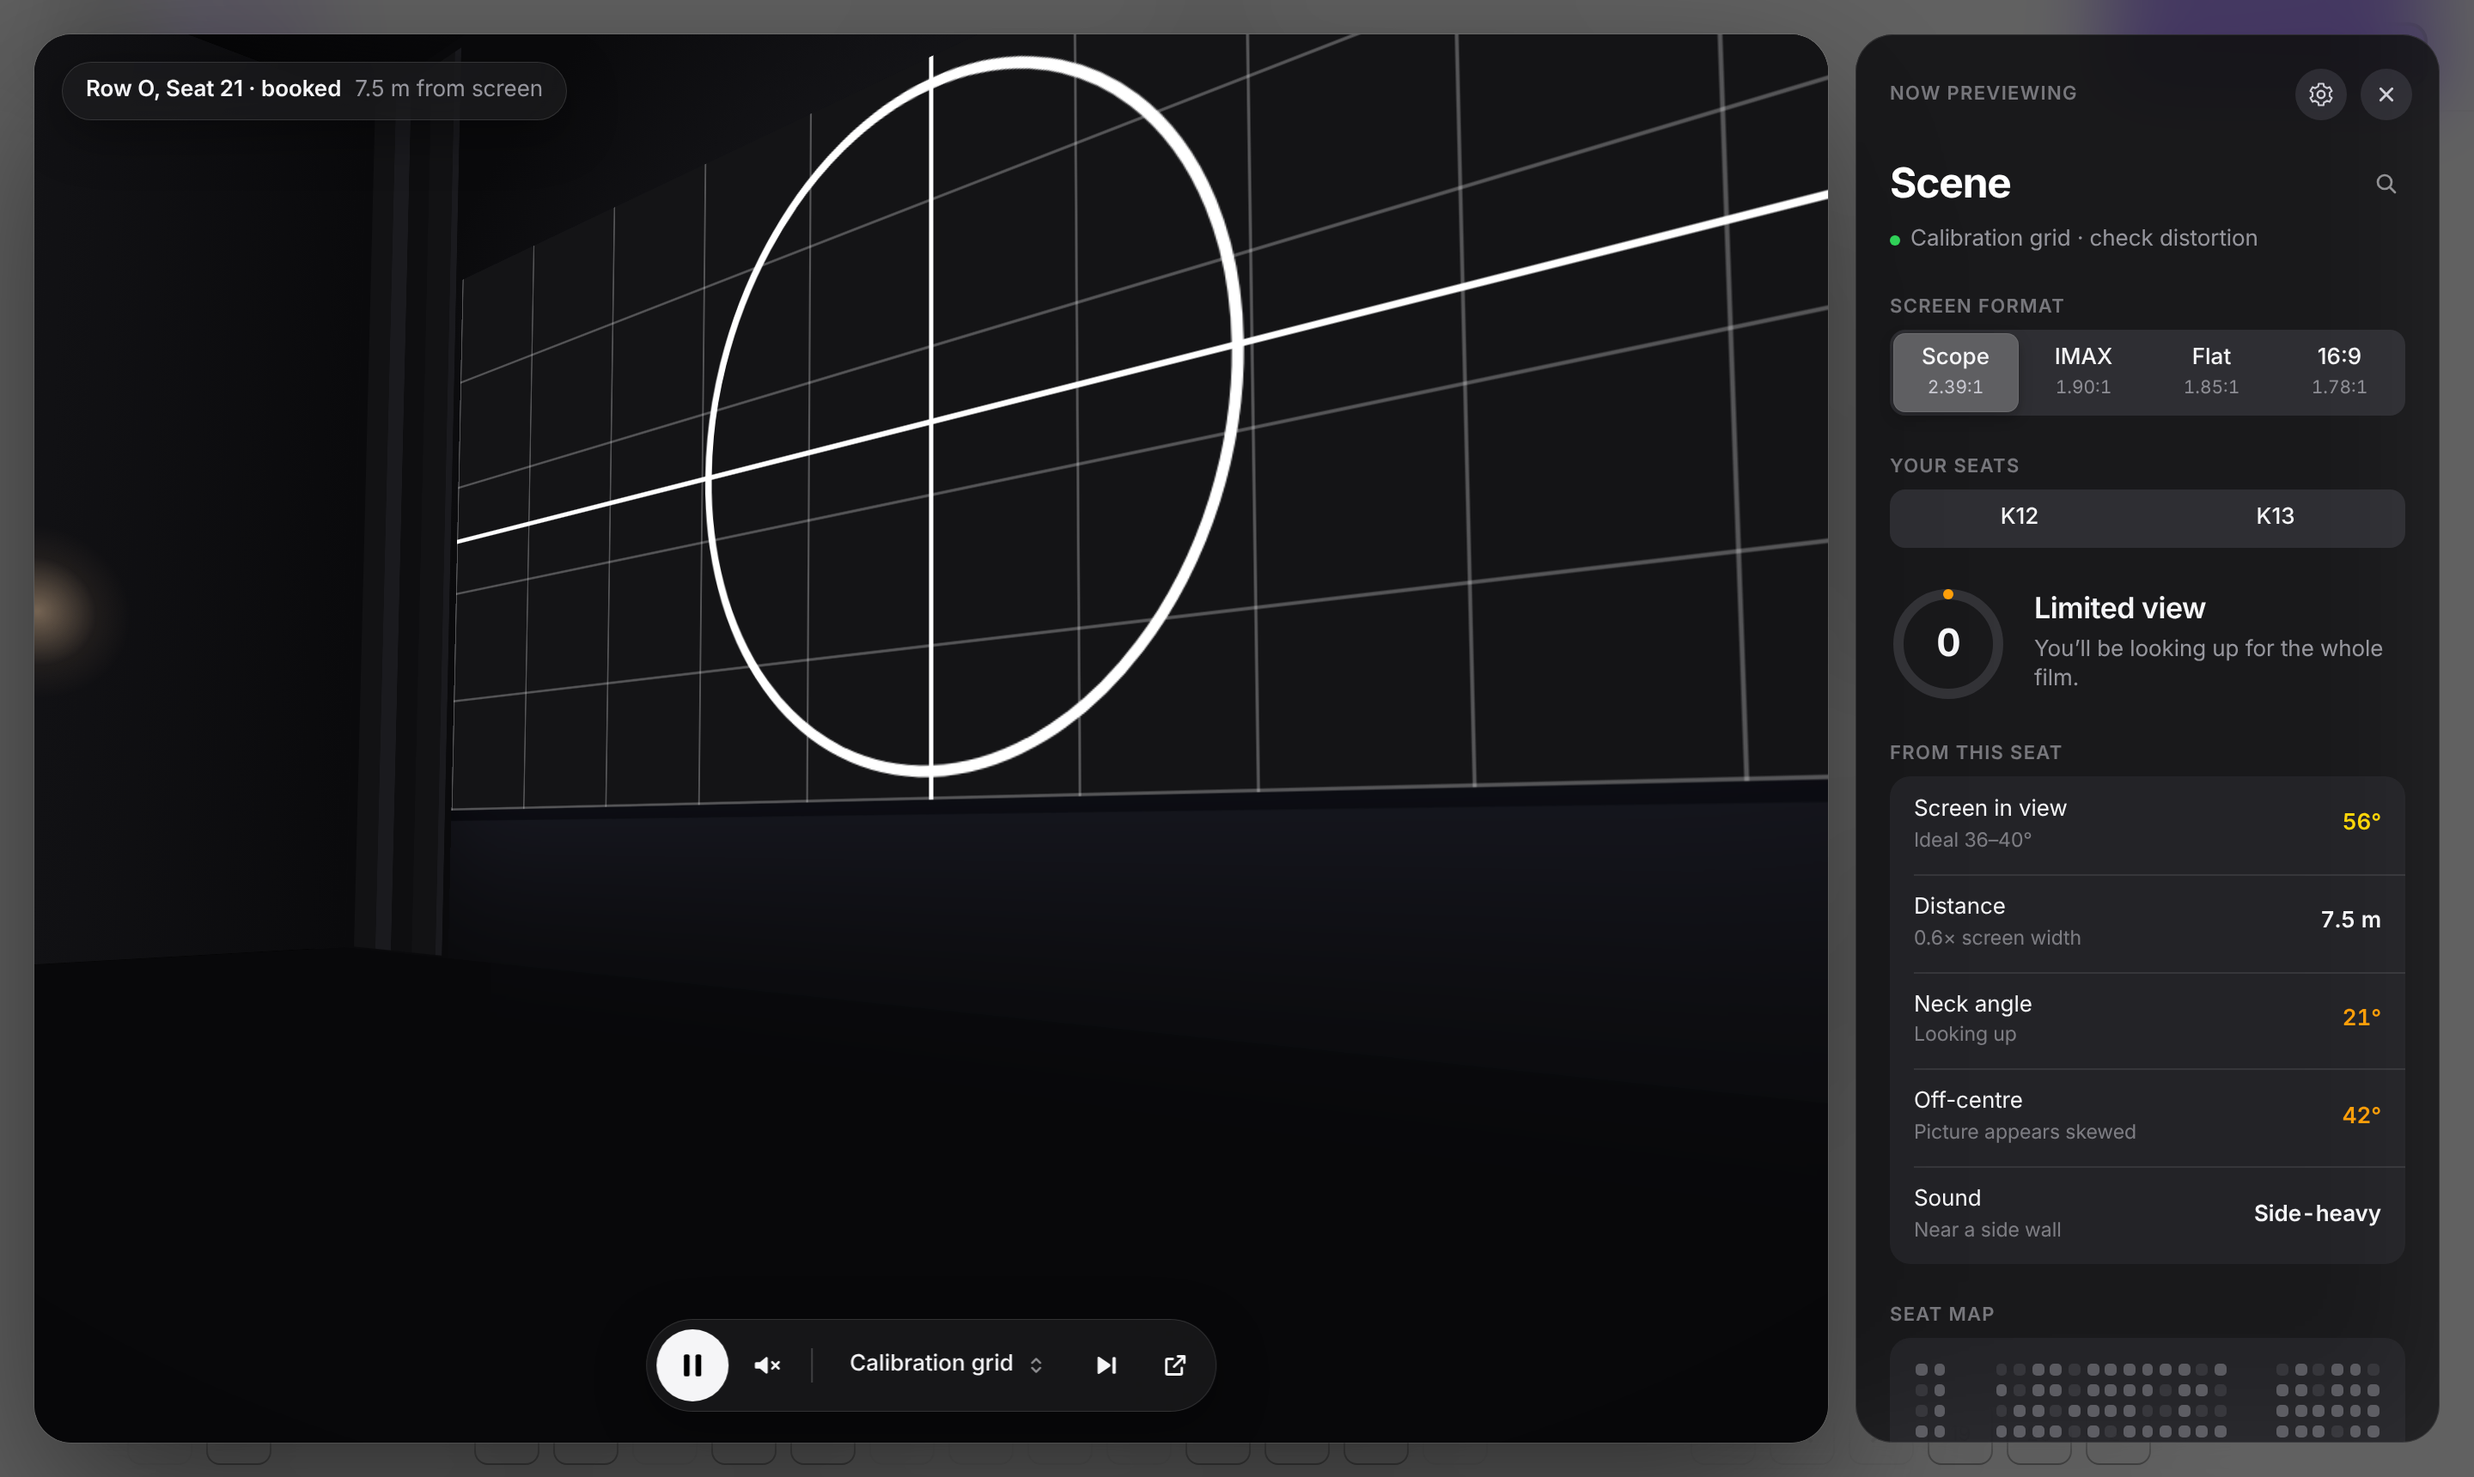
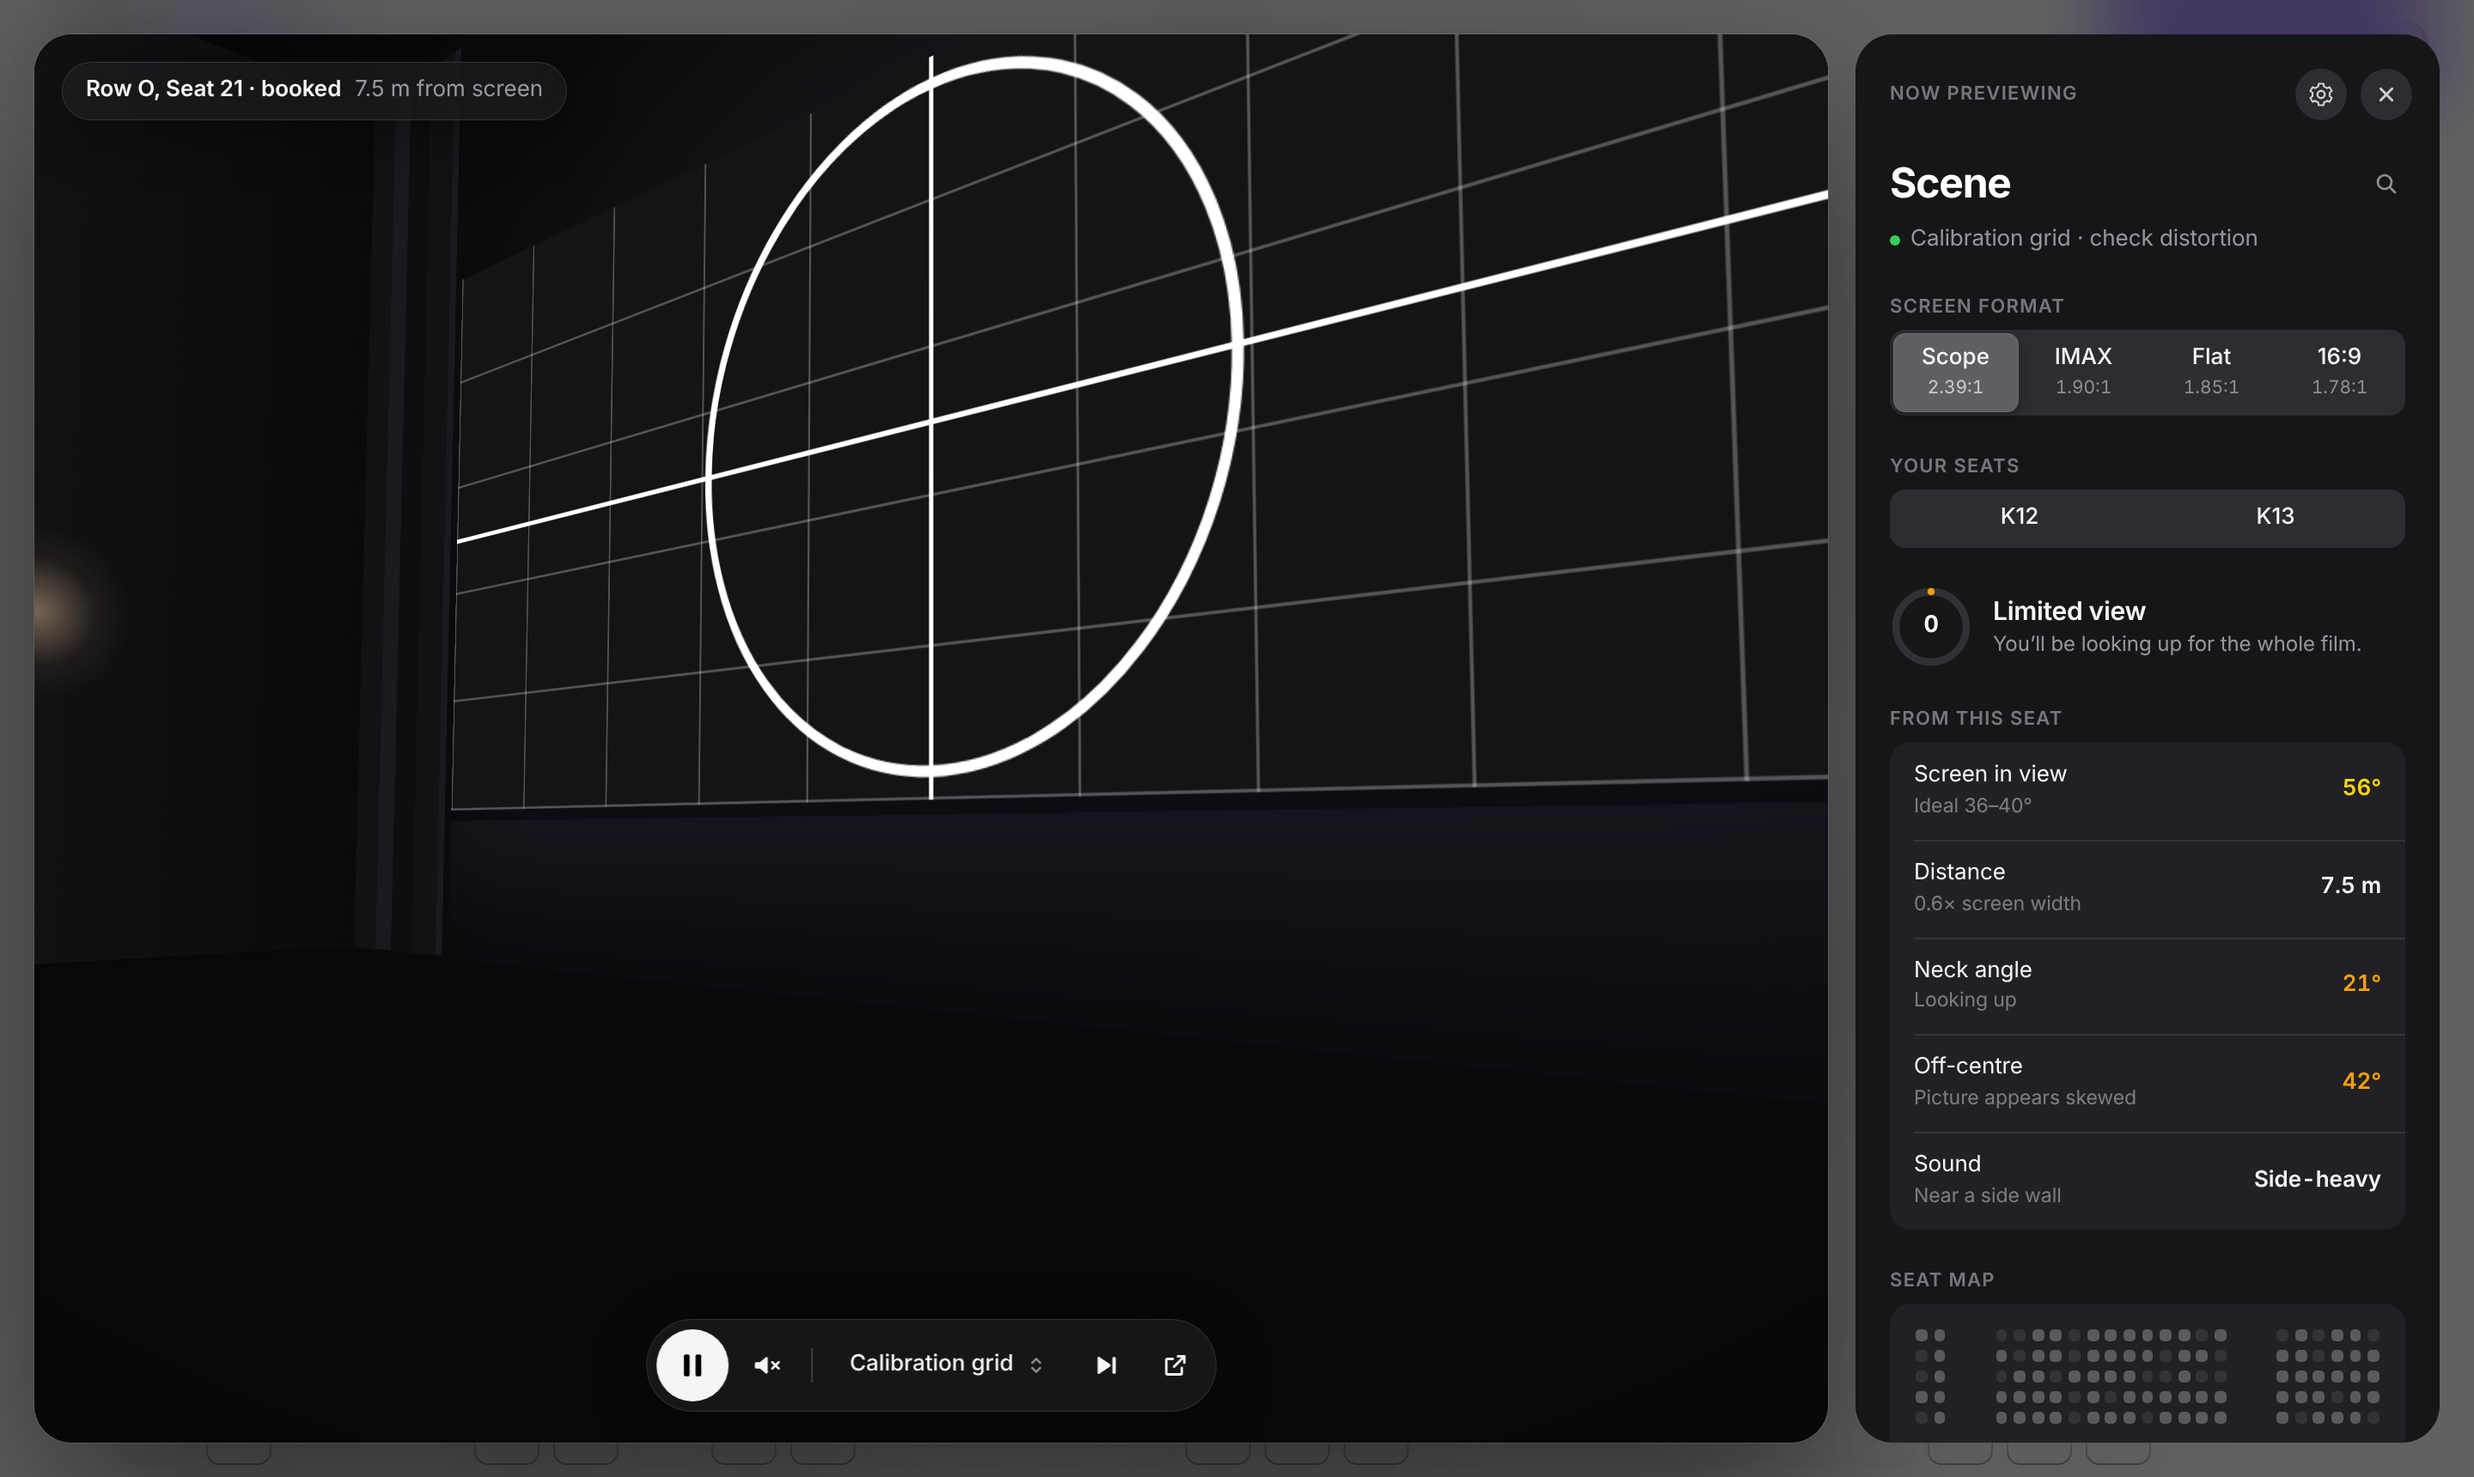
Fix side panel flicker, smaller seat score
- Side panel no longer uses backdrop-filter over the live 3D/video scene
  and its views have no resting transform (Chrome compositing glitch)
- Re-render only on real stage resizes; movie re-detection only on URL change
- Compact score ring
- Refresh screenshots

Claude-Session: https://claude.ai/code/session_01EKuLHeyBXavYJ7AwxYQMzt

diff --git a/content/overlay.js b/content/overlay.js
@@ -115,13 +115,16 @@
 
   /* ---------- Sidebar ---------- */
   aside { width: 340px; flex: none; border-radius: 22px; overflow: hidden; display: flex; flex-direction: column;
-    background: rgba(22,22,24,.78); -webkit-backdrop-filter: blur(40px) saturate(180%); backdrop-filter: blur(40px) saturate(180%);
-    box-shadow: inset 0 0 0 .5px rgba(255,255,255,.1); }
+    background: #161618; box-shadow: inset 0 0 0 .5px rgba(255,255,255,.1);
+    isolation: isolate; contain: layout paint; }
   .views { position: relative; flex: 1; overflow: hidden; }
-  .view { position: absolute; inset: 0; display: flex; flex-direction: column; transition: transform .5s ${EASE}, opacity .35s ease; }
-  .view.prefs { transform: translateX(100%); }
-  aside.show-prefs .view.main { transform: translateX(-28%); opacity: 0; pointer-events: none; }
-  aside.show-prefs .view.prefs { transform: none; }
+  .view { position: absolute; inset: 0; display: flex; flex-direction: column; background: #161618;
+    transition: transform .45s ${EASE}, opacity .3s ease, visibility 0s linear .45s; }
+  .view.main { transform: none; }
+  .view.prefs { transform: translateX(100%); visibility: hidden; }
+  aside.show-prefs .view.main { transform: translateX(-24%); opacity: 0; visibility: hidden; pointer-events: none; }
+  aside.show-prefs .view.prefs { transform: none; visibility: visible; transition: transform .45s ${EASE}, opacity .3s ease, visibility 0s; }
+  aside:not(.show-prefs) .view.main { transition: transform .45s ${EASE}, opacity .3s ease, visibility 0s; }
   .top { display: flex; align-items: center; gap: 8px; min-height: 62px; padding: 16px 16px 8px 20px; }
   .top .eyebrow { margin: 0; }
   .top .ttl { font-size: 17px; font-weight: 600; letter-spacing: -.015em; position: absolute; left: 50%; transform: translateX(-50%); }
@@ -150,13 +153,13 @@
   .seg button small { display: block; font-size: 10.5px; font-weight: 400; color: rgba(235,235,245,.5); font-variant-numeric: tabular-nums; margin-top: 1px; }
   .seg button.on small { color: rgba(235,235,245,.75); }
   .seg button.on { background: rgba(99,99,102,.95); box-shadow: 0 3px 8px rgba(0,0,0,.25), inset 0 0 0 .5px rgba(255,255,255,.08); }
-  .score { display: flex; align-items: center; gap: 16px; }
-  .ring { position: relative; width: 68px; height: 68px; flex: none; }
+  .score { display: flex; align-items: center; gap: 12px; }
+  .ring { position: relative; width: 48px; height: 48px; flex: none; }
   .ring svg { transform: rotate(-90deg); }
   .ring circle { transition: stroke-dasharray .8s ${EASE}, stroke .4s ease; }
-  .ring b { position: absolute; inset: 0; display: grid; place-items: center; font-size: 22px; font-weight: 700; letter-spacing: -.02em; font-variant-numeric: tabular-nums; }
-  .verdict { font-size: 17px; font-weight: 600; letter-spacing: -.015em; }
-  .summary { color: rgba(235,235,245,.6); margin-top: 2px; }
+  .ring b { position: absolute; inset: 0; display: grid; place-items: center; font-size: 13.5px; font-weight: 700; letter-spacing: -.02em; font-variant-numeric: tabular-nums; }
+  .verdict { font-size: 15px; font-weight: 600; letter-spacing: -.01em; }
+  .summary { color: rgba(235,235,245,.6); margin-top: 1px; font-size: 12px; }
   .list { border-radius: 12px; background: rgba(118,118,128,.12); overflow: hidden; }
   .row { display: flex; align-items: center; justify-content: space-between; gap: 12px; padding: 11px 14px; position: relative; }
   .row + .row::before { content: ""; position: absolute; top: 0; left: 14px; right: 0; height: .5px; background: rgba(255,255,255,.09); }
@@ -287,7 +290,12 @@
     wake();
 
     for (const t of ['keydown', 'keyup', 'keypress']) host.addEventListener(t, (e) => e.stopPropagation());
-    new ResizeObserver(() => render(true)).observe(E.stage);
+    let lastW = 0, lastH = 0;
+    new ResizeObserver(([en]) => {
+      const { width, height } = en.contentRect;
+      if (Math.abs(width - lastW) < 1 && Math.abs(height - lastH) < 1) return;
+      lastW = width; lastH = height; render(true);
+    }).observe(E.stage);
     return host;
   }
 

diff --git a/content/main.js b/content/main.js
@@ -219,19 +219,20 @@
   // ---------- keep up with SPA navigation (movie / showtime changes) ----------
   let lastHref = location.href;
   let lastSeenTitle = '';
+  // Re-detect the movie only when the page URL changes (new movie / showtime) – no polling of the page itself
   setInterval(async () => {
-    if (location.href !== lastHref) {
-      lastHref = location.href;
-      setTimeout(rememberMovieOnDetailsPage, 1500);
-    }
+    if (location.href === lastHref) return;
+    lastHref = location.href;
+    setTimeout(rememberMovieOnDetailsPage, 1500);
     if (CV.Overlay && CV.Overlay.isOpen()) {
+      await new Promise((r) => setTimeout(r, 1200)); // let the new page render
       const m = await detectMovie();
       if (m.title && m.title !== lastSeenTitle) {
         lastSeenTitle = m.title;
         CV.Overlay.updateMovie(m.title, { lang: m.lang, ids: m.ids });
       }
     }
-  }, 1500);
+  }, 1000);
 
   setTimeout(rememberMovieOnDetailsPage, 1200);
 })();
